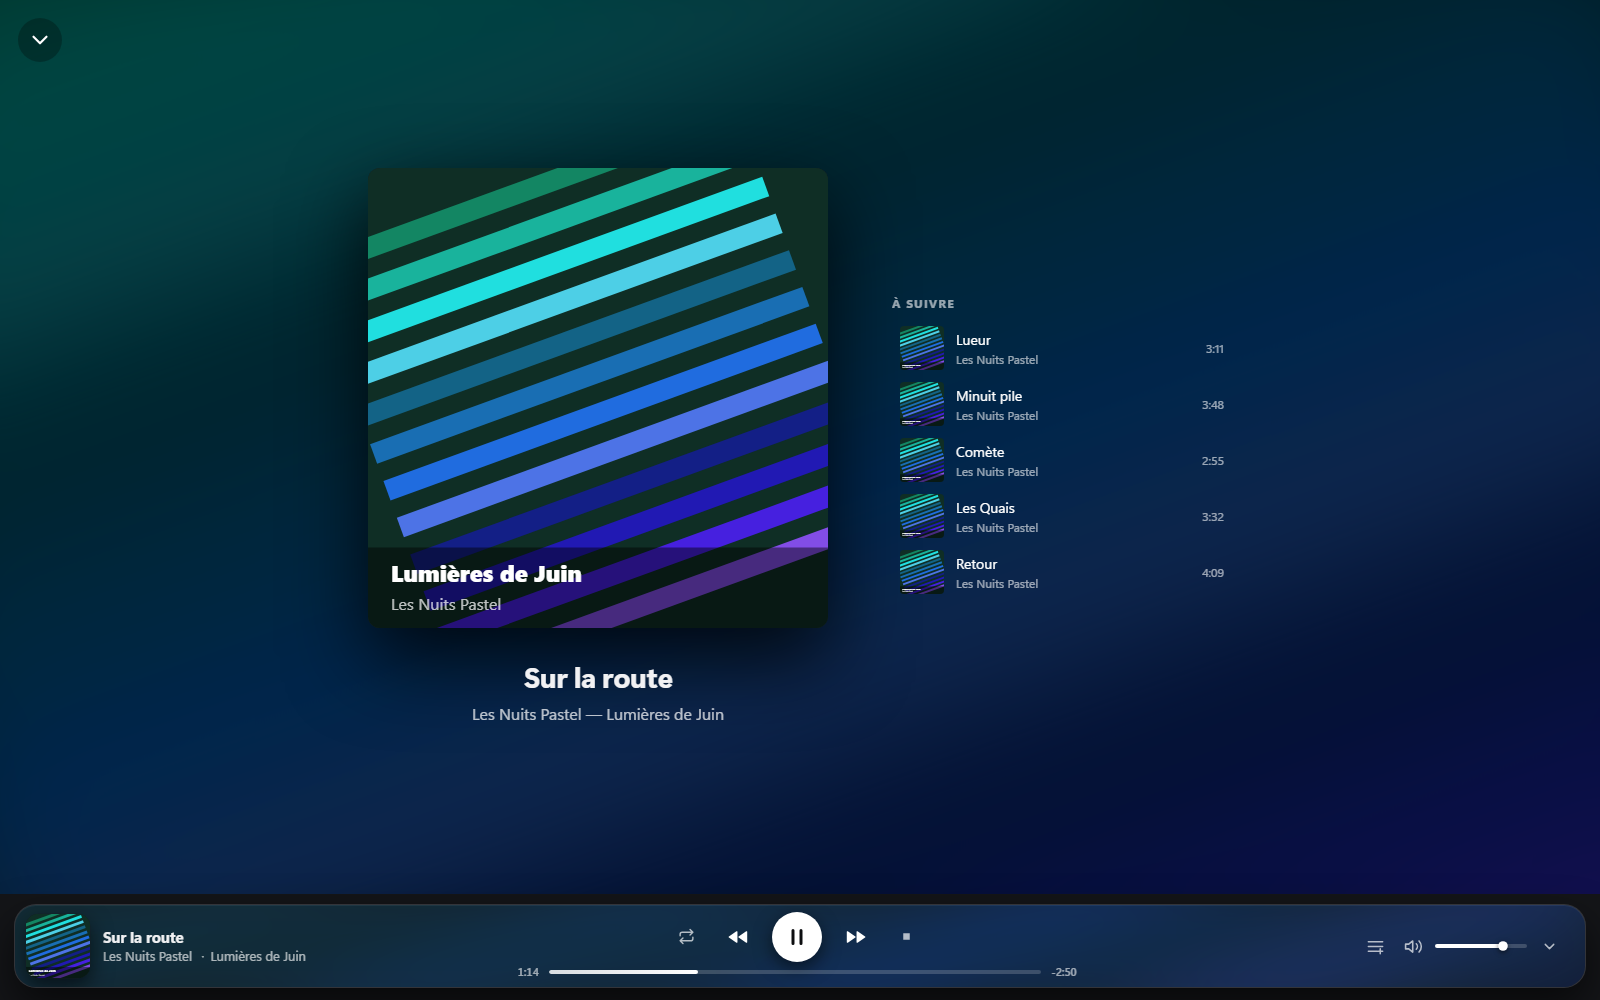
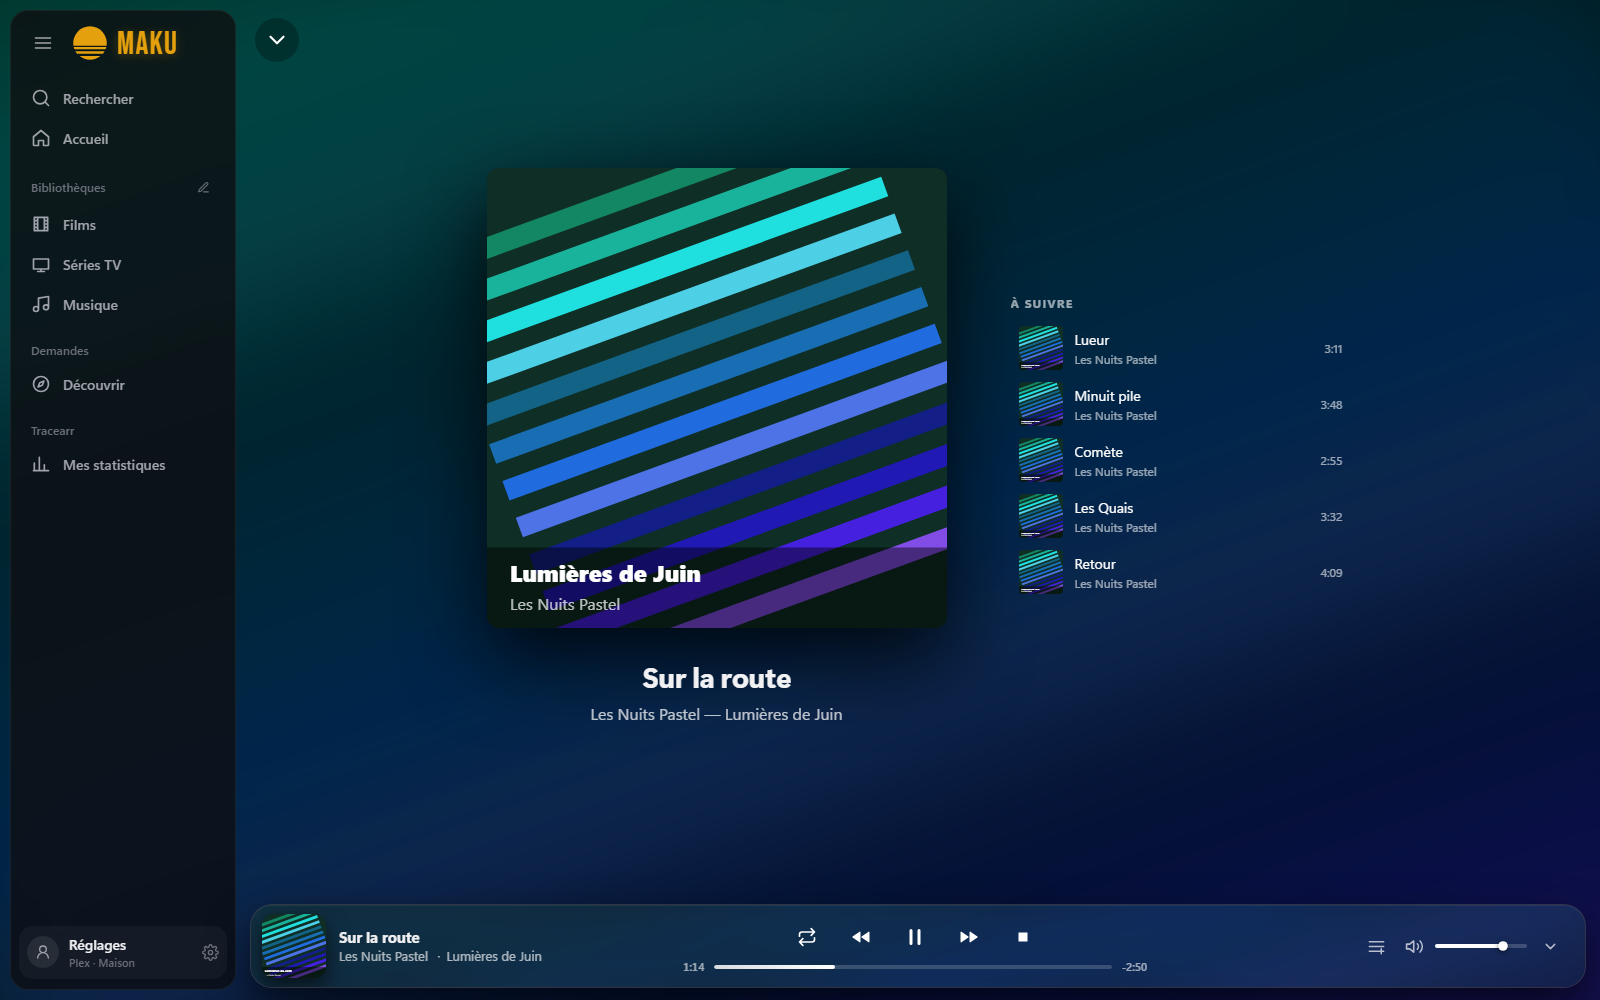
Musique sur ordinateur : barre sous le contenu, boutons uniformes
- La barre musique reste dans la colonne du contenu : le menu de gauche
  garde toute la hauteur.
- Les cinq boutons de lecture ont le même style et la même taille (le
  bouton lecture n'est plus un disque blanc ; le téléphone le garde).
- « En cours de lecture » se cale sur la colonne du contenu, et son fond
  aux couleurs de la pochette passe derrière le menu translucide.

Captures « Musique » et « En cours de lecture » du README refaites.

Changed region(s): [[0.0, 0.0, 1.0, 1.0], [0.2188, 0.155, 0.7188, 0.744]]

diff --git a/src/components/MusicBar.svelte b/src/components/MusicBar.svelte
@@ -118,12 +118,12 @@
           aria-label={t("musicBar.repeatQueue")}
           title={t("musicBar.repeatQueue")}
         >
-          <Icon name="repeat" size={17} />
+          <Icon name="repeat" size={20} />
         </button>
         <button class="ctl" onclick={previous} aria-label={t("common.c1.previous")} title={t("common.c1.previous")}>
-          <Icon name="backward" size={26} filled />
+          <Icon name="backward" size={24} filled />
         </button>
-        <button class="play" class:paused={player.paused} onclick={() => mpv("cycle", "pause")} aria-label={player.paused ? t("common.c1.playback") : t("common.c1.pause")}>
+        <button class="ctl play" class:paused={player.paused} onclick={() => mpv("cycle", "pause")} aria-label={player.paused ? t("common.c1.playback") : t("common.c1.pause")}>
           <Icon name={player.paused ? "play" : "pause"} size={24} filled />
         </button>
         <button
@@ -133,9 +133,9 @@
           aria-label={t("common.c1.next")}
           title={t("common.c1.next")}
         >
-          <Icon name="forward" size={26} filled />
+          <Icon name="forward" size={24} filled />
         </button>
-        <button class="ctl small" onclick={stop} aria-label={t("common.c1.stop")} title={t("common.c1.stop")}><Icon name="stop" size={13} filled /></button>
+        <button class="ctl small" onclick={stop} aria-label={t("common.c1.stop")} title={t("common.c1.stop")}><Icon name="stop" size={18} filled /></button>
       </div>
 
       <div class="scrub">
@@ -209,12 +209,12 @@
 </div>
 
 <style>
-  /* La barre flotte au-dessus du bas de la fenêtre, comme une capsule de verre. */
+  /* La barre, une capsule de verre sous le contenu (sans fond autour : la vue « En cours de lecture »
+     passe derrière elle). */
   .dock {
     position: relative;
     z-index: 30;
     padding: 8px 14px 12px;
-    background: var(--bg);
   }
 
   .bar {
@@ -401,6 +401,18 @@
     color: #fff;
   }
 
+  /* Les cinq boutons de lecture (répétition, précédent, lecture, suivant, arrêt) : même cercle, même
+     couleur, icônes de même taille. */
+  .transport .ctl.small {
+    width: 40px;
+    height: 40px;
+    color: #fff;
+  }
+
+  .transport .ctl.on {
+    color: var(--accent);
+  }
+
   /* Bouton actif (répétition, file d'attente) : couleur d'accent et petit point dessous. */
   .ctl.on {
     position: relative;
@@ -417,36 +429,11 @@
     background: var(--accent);
   }
 
-  .play {
-    display: grid;
-    place-items: center;
-    width: 50px;
-    height: 50px;
-    padding: 0;
-    border: none;
-    border-radius: 50%;
+  /* Sur ordinateur, le bouton lecture est un bouton comme les autres (`ctl`) ; le téléphone garde son
+     disque blanc (plus bas). */
+  :global(html.phone) .play {
     background: #fff;
     color: #0d0e10;
-    box-shadow: 0 6px 18px #0008;
-    transition:
-      transform 0.18s var(--ease),
-      background 0.15s,
-      box-shadow 0.2s;
-  }
-
-  .play.paused {
-    padding-left: 3px;
-  }
-
-  .play:hover {
-    transform: scale(1.07);
-    box-shadow:
-      0 0 0 6px #ffffff1a,
-      0 8px 22px #0009;
-  }
-
-  .play:active {
-    transform: scale(0.94);
   }
 
   .scrub {

diff --git a/src/components/NowPlaying.svelte b/src/components/NowPlaying.svelte
@@ -80,7 +80,10 @@
 <style>
   .now-playing {
     position: fixed;
-    inset: 0 0 106px 0;
+    /* Le fond couvre toute la fenêtre, menu compris (il flotte par-dessus, voir Sidebar) ; le contenu se
+       cale sur la colonne de droite, au-dessus de la barre musique. */
+    inset: 0;
+    padding: 0 0 106px var(--sidebar-w, 237px);
     z-index: 25;
     overflow: hidden;
     background: #0d0e10;
@@ -107,7 +110,7 @@
     position: absolute;
     z-index: 1;
     top: 18px;
-    left: 18px;
+    left: calc(var(--sidebar-w, 237px) + 18px);
     display: grid;
     place-items: center;
     width: 44px;
@@ -241,6 +244,7 @@
 
   :global(html.phone) .now-playing {
     inset: 0;
+    padding: 0;
     z-index: 60;
     overflow-y: auto;
   }

diff --git a/src/App.svelte b/src/App.svelte
@@ -187,9 +187,12 @@
           {/if}
         {/key}
       </div>
+      <!-- Ordinateur : la barre musique sous le contenu seulement, le menu de gauche garde toute la hauteur. -->
+      {#if listening && !device.tv && !device.phone}<MusicBar />{/if}
     </main>
   </div>
-  {#if listening}{#if device.tv}<TvMiniPlayer />{:else}<MusicBar />{/if}{/if}
+  {#if listening && device.tv}<TvMiniPlayer />{/if}
+  {#if listening && device.phone}<MusicBar />{/if}
   {#if device.phone && !watching}<PhoneTabs />{/if}
   </div>
 {/if}

diff --git a/src/components/Sidebar.svelte b/src/components/Sidebar.svelte
@@ -451,7 +451,10 @@
 
   /* ---------- Ordinateur : panneau flottant (Apple), page active en barre lumineuse (Netflix) ---------- */
 
+  /* Au-dessus de « En cours de lecture », dont le fond passe derrière le panneau translucide. */
   .desk {
+    position: relative;
+    z-index: 26;
     margin: 10px 0 10px 10px;
     padding: 12px 8px 10px;
     border: 1px solid #ffffff10;

diff --git a/README.md b/README.md
@@ -82,8 +82,9 @@ visionnage. Tout se fait avec son compte Plex (ou Jellyfin) : aucune clé d'API 
       <h4>🎵 Il joue votre musique</h4>
       Une page d'accueil façon Apple Music : grands panneaux des derniers albums, listes de lecture,
       « Titres du moment », pochettes qui grandissent avec la fenêtre. File d'attente, lecture aléatoire et
-      vue « En cours de lecture ». Une barre de lecture flottante, en verre dépoli teinté par la pochette, reste
-      en bas pendant que vous naviguez.
+      vue « En cours de lecture », dont le fond aux couleurs de la pochette passe jusque derrière le menu. Une barre
+      de lecture flottante, en verre dépoli teinté par la pochette, reste en bas du contenu pendant que vous naviguez,
+      avec des commandes toutes de même taille.
     </td>
   </tr>
   <tr>
